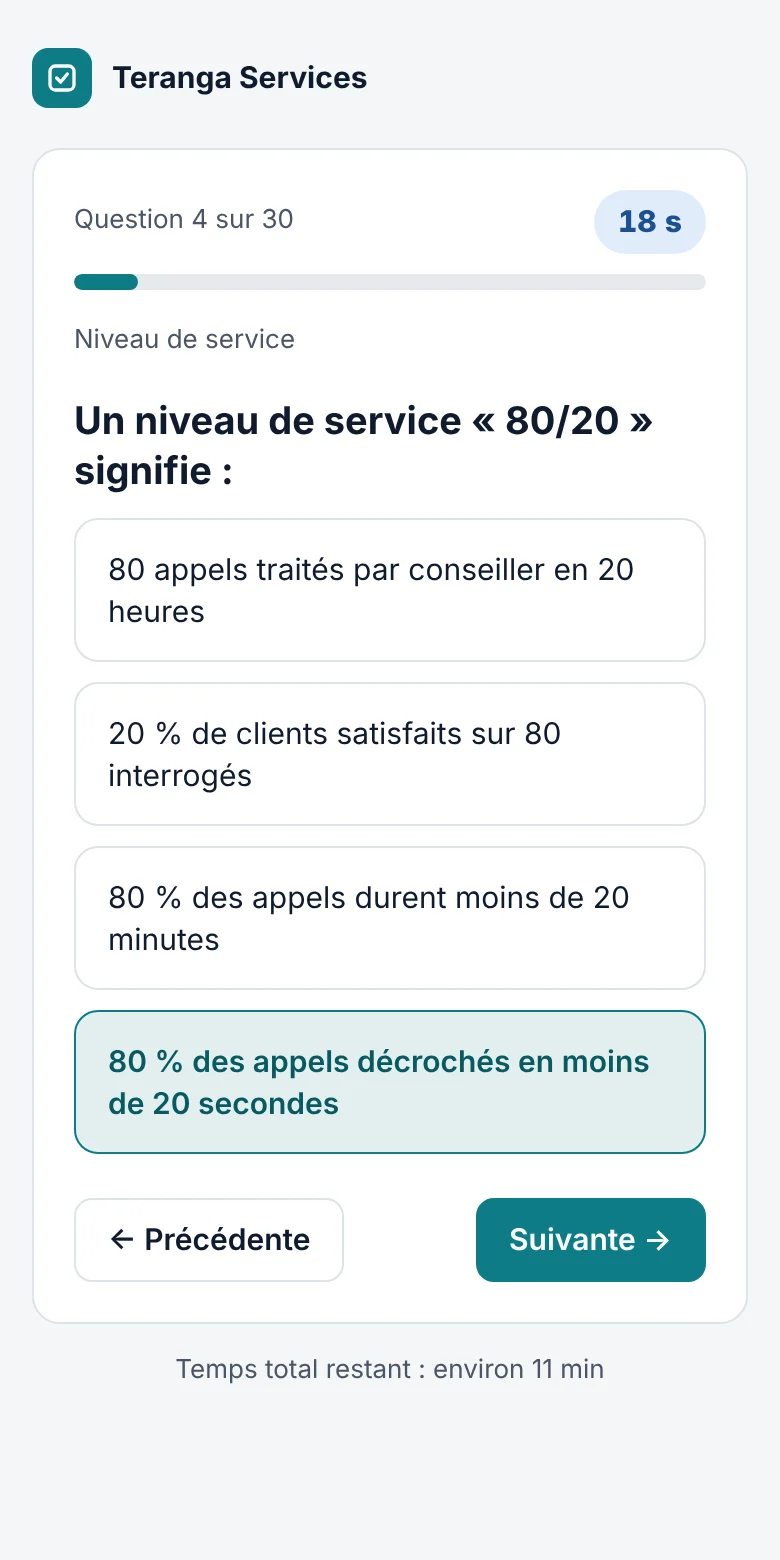
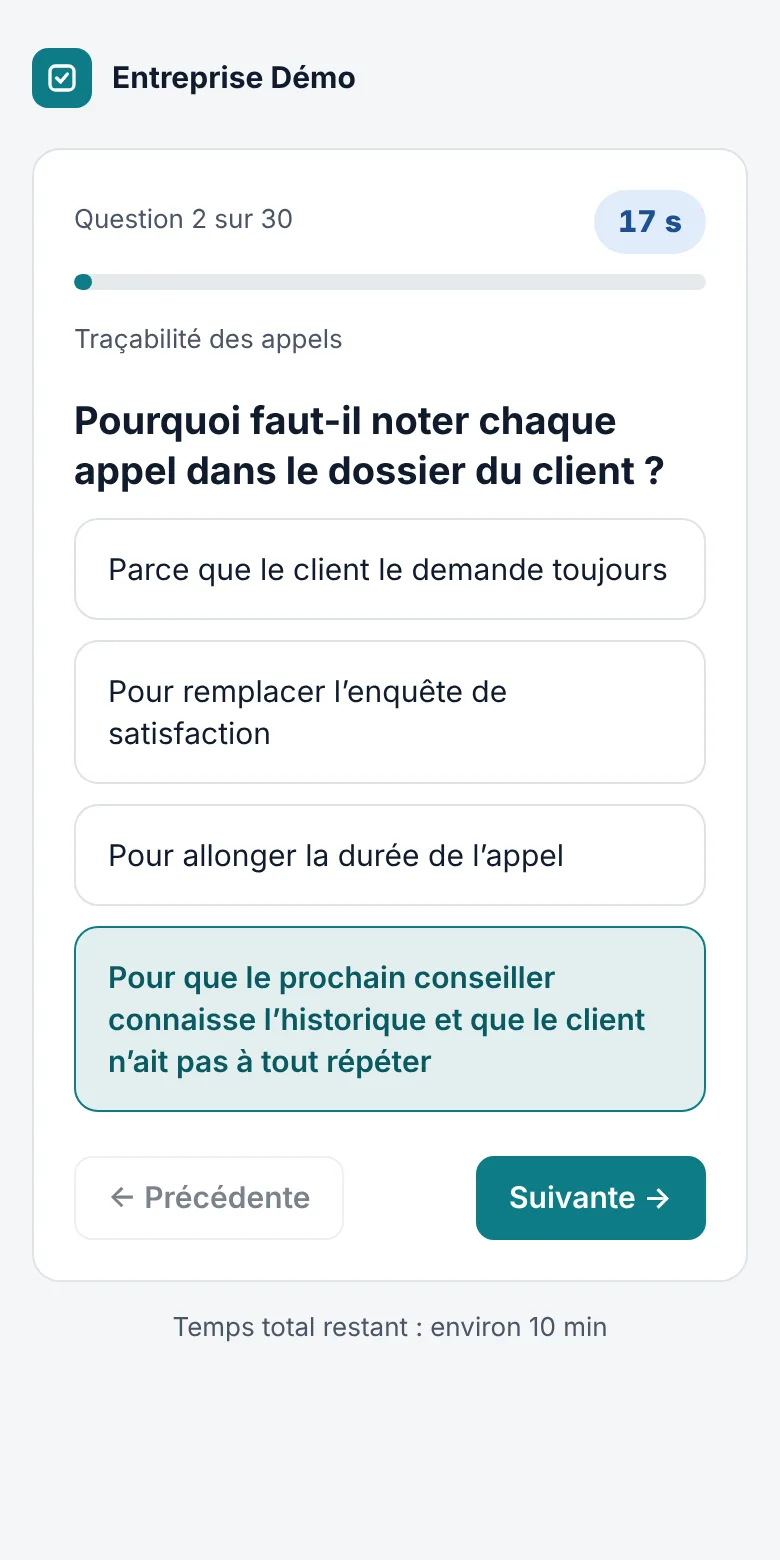
Validation des entreprises, confirmation des adresses e-mail, captures avec entreprise fictive
- Nouvelle entreprise en attente : offres invisibles et aucun e-mail aux candidats avant validation
- Page Administration (valider, suspendre), e-mail au propriétaire à chaque inscription
- Lien de confirmation d'adresse pour recruteurs et candidats, bouton Renvoyer
- Alertes d'offres envoyées après validation et confirmation
- Filtres métiers corrigés et défilants sur téléphone
- Captures refaites avec « Entreprise Démo »

Claude-Session: https://claude.ai/code/session_0149wN8ydciADWxFRrMPPqZM

diff --git a/app/public/app.html b/app/public/app.html
@@ -14,6 +14,7 @@
   <nav class="nav" id="nav"></nav>
   <div class="who"><span id="who"></span><button class="btn sm" id="logout">Se déconnecter</button></div>
 </div></header>
+<div id="notice"></div>
 <main id="app"></main>
 <div id="toast" class="toast" role="status" aria-live="polite"></div>
 <div id="modal"></div>
@@ -45,10 +46,21 @@ document.addEventListener('keydown',function(e){if(e.key==='Escape')closeModal()
 
 /* ---------- chrome ---------- */
 function chrome(active){
-  var top=$('#top');top.hidden=!ME;if(!ME)return;
+  var top=$('#top');top.hidden=!ME;if(!ME){$('#notice').innerHTML='';return;}
   $('#who').innerHTML=(ME.logo?'<img src="'+esc(ME.logo)+'" alt="Logo '+esc(ME.company)+'" style="height:36px;max-width:150px;object-fit:contain;display:block">':'')+'<span>'+esc(ME.company)+'</span>';$('#who').style.cssText='display:flex;align-items:center;gap:10px';
   var items=[['#/accueil','Accueil','accueil'],['#/tests','Mes tests','tests'],['#/offres','Offres','offres'],['#/mails','E-mails','mails'],['#/account','Mon compte','account']];
+  if(ME.superadmin)items.push(['#/admin','Administration','admin']);
+  notice();
   $('#nav').innerHTML=items.map(function(i){return '<a href="'+i[0]+'" class="'+(active===i[2]?'on':'')+'">'+i[1]+'</a>';}).join('');
+}
+/* bandeau d'état du compte : adresse à confirmer, entreprise en cours de vérification */
+function notice(){var n=$('#notice'),m='';
+  if(ME.superadmin){n.innerHTML='';return;}
+  if(!ME.verified)m='<b>Confirmez votre adresse e-mail.</b> Un lien vous a été envoyé à '+esc(ME.email)+' (pensez aux courriers indésirables). Tant que l’adresse n’est pas confirmée, vos tests et vos offres restent en préparation : rien n’est envoyé aux candidats. <button class="btn sm" id="rv" type="button">Renvoyer l’e-mail</button>';
+  else if(ME.companyStatus==='en_attente')m='<b>Votre entreprise est en cours de vérification</b> par l’équipe Genius Recrutement, en général sous 24 heures ouvrées. Vous pouvez déjà préparer vos tests et vos offres : elles deviendront visibles et les candidats seront prévenus dès la validation.';
+  else if(ME.companyStatus==='suspendue')m='<b>Le compte de votre entreprise est suspendu.</b> Vos offres ne sont plus visibles. Écrivez à <a href="mailto:consultingalveris@gmail.com">consultingalveris@gmail.com</a>.';
+  n.innerHTML=m?'<div class="wrap" style="padding-bottom:0"><p class="note '+(ME.companyStatus==='suspendue'?'warn':'info')+'" style="margin:0">'+m+'</p></div>':'';
+  var b=$('#rv');if(b)b.addEventListener('click',function(){busy(b,true);api('POST','/api/verify/resend',{}).then(function(r){toast(r.already?'Adresse déjà confirmée.':r.sent?'E-mail renvoyé à '+ME.email+'.':'L’envoi a échoué. Réessayez dans quelques minutes.');}).catch(handle).then(function(){busy(b,false);});});
 }
 $('#logout').addEventListener('click',function(){api('POST','/api/logout').then(function(){ME=null;location.hash='#/login';});});
 
@@ -208,6 +220,7 @@ function inviteModal(t){
     var bad=list.filter(function(x){return !x.email;});if(bad.length)throw new Error('Adresse e-mail manquante sur la ligne : '+bad[0].name);
     return api('POST','/api/tests/'+t.id+'/invite',{candidates:list,send:d.send}).then(function(r){
       var msg='<h2>'+r.added+' candidat'+(r.added>1?'s':'')+' ajouté'+(r.added>1?'s':'')+'</h2><div class="col" style="margin:14px 0">';
+      if(r.blocked)msg+='<p class="note info">Aucun e-mail envoyé : '+esc(r.blocked)+' En attendant, vous pouvez copier le lien de chaque candidat.</p>';
       if(r.sent)msg+='<p class="note ok">'+r.sent+' e-mail'+(r.sent>1?'s':'')+' d’invitation envoyé'+(r.sent>1?'s':'')+'.</p>';
       if(r.test)msg+='<p class="note warn">Les e-mails ne sont pas encore activés sur la plateforme : '+r.test+' invitation'+(r.test>1?'s n’ont':' n’a')+' pas pu partir. Utilisez le bouton « Copier le lien » à côté de chaque candidat et envoyez-le vous-même (WhatsApp, e-mail…).</p>';
       if(r.failed)msg+='<p class="note warn">'+r.failed+' envoi'+(r.failed>1?'s ont':' a')+' échoué. Utilisez « Renvoyer » plus tard.</p>';
@@ -277,12 +290,12 @@ V.account=function(){
   if($('#logodel'))$('#logodel').addEventListener('click',function(){api('DELETE','/api/company/logo').then(function(){ME.logo=null;toast('Logo retiré.');V.account();}).catch(handle);});
   var rt=ROUTE;if(ME.superadmin)api('GET','/api/admin/mail').then(function(m){if(rt!==ROUTE)return;
     var box=$('#mailcfg');
-    box.innerHTML='<form class="form" id="fm"><div><h2>Envoi des e-mails de la plateforme</h2><p class="muted" style="margin-top:4px">Réservé au propriétaire de Genius Recrutement. Ces réglages viennent du service d’envoi (par exemple Brevo, rubrique « SMTP &amp; API »).</p></div>'+
+    box.innerHTML='<form class="form" id="fm"><div><h2>Envoi des e-mails de la plateforme</h2><p class="muted" style="margin-top:4px">Réservé au propriétaire de Genius Recrutement. Les e-mails partent de la boîte ne-pas-repondre@alveris-consulting.com, hébergée chez LWS.</p></div>'+
     (m.hasPass?'<p class="note ok">Un service d’envoi est enregistré.</p>':'<p class="note warn">Aucun service d’envoi : les e-mails ne partent pas encore.</p>')+
     '<div class="two"><label class="field">Serveur SMTP<input class="in" name="host" value="'+esc(m.host)+'" placeholder="smtp-relay.brevo.com"></label><label class="field">Port<input class="in" name="port" type="number" value="'+esc(m.port)+'"></label></div>'+
     '<label class="field">Identifiant SMTP<input class="in" name="user" value="'+esc(m.user)+'" autocomplete="off"></label>'+
-    '<label class="field">Clé SMTP <span class="hint">'+(m.hasPass?'Laissez vide pour garder la clé déjà enregistrée.':'Collez la clé fournie par le service d’envoi.')+'</span><input class="in" name="pass" type="password" autocomplete="new-password"></label>'+
-    '<label class="field">Expéditeur affiché <span class="hint">Une adresse validée chez le service d’envoi, par exemple : Genius Recrutement &lt;contact@alveris-consulting.com&gt;</span><input class="in" name="from" value="'+esc(m.from)+'"></label>'+
+    '<label class="field">Mot de passe de la boîte <span class="hint">'+(m.hasPass?'Laissez vide pour garder la clé déjà enregistrée.':'Mot de passe de la boîte e-mail d’envoi.')+'</span><input class="in" name="pass" type="password" autocomplete="new-password"></label>'+
+    '<label class="field">Expéditeur affiché <span class="hint">Le nom et l’adresse que verront les destinataires, par exemple : Genius Recrutement &lt;contact@alveris-consulting.com&gt;</span><input class="in" name="from" value="'+esc(m.from)+'"></label>'+
     '<p class="err" hidden></p><div><button class="btn primary" type="submit">Enregistrer et tester</button></div><div id="mres"></div></form>';
     bindForm('#fm',function(d){return api('PUT','/api/admin/mail',d).then(function(r){$('#mres').innerHTML='<p class="note '+(r.verified?'ok':'warn')+'">'+esc(r.message)+'</p>';});});
   }).catch(handle);
@@ -316,6 +329,7 @@ V.offreForm=function(id){
     '<label class="check" style="margin-top:10px"><input type="checkbox" name="autoTest"'+(o.autoTest?' checked':'')+'><span><b>Envoyer le test automatiquement</b> aux candidats dont le métier correspond à l’offre.<br><span class="muted">Sinon, vous l’envoyez vous-même depuis la liste des candidatures.</span></span></label></fieldset>'+
     '<p class="err" hidden></p><div class="row"><button class="btn primary" type="submit">'+(id?'Enregistrer':'Publier l’offre')+'</button><a class="btn" href="'+(id?'#/offres/'+id:'#/offres')+'">Annuler</a></div></form></div>';
     bindForm('#fo',function(d){return (id?api('PUT','/api/rh/offers/'+id,d).then(function(){return {id:id};}):api('POST','/api/rh/offers',d)).then(function(r){
+      if(r.pending){toast('Offre enregistrée. Elle sera visible dès que votre compte sera validé.');location.hash='#/offres/'+r.id;return;}
       toast(id?'Offre enregistrée.':'Offre publiée'+(r.alerted?' : '+r.alerted+' candidat'+(r.alerted>1?'s':'')+' alerté'+(r.alerted>1?'s':'')+'.':'.'));location.hash='#/offres/'+r.id;});});
   }).catch(handle);
 };
@@ -367,6 +381,25 @@ V.accueil=function(){
   }).catch(handle);
 };
 
+/* ---------- administration (propriétaire de la plateforme) ---------- */
+V.admin=function(){
+  if(!ME.superadmin)return V.accueil();
+  chrome('admin');var rt=ROUTE;
+  api('GET','/api/admin/companies').then(function(r){if(rt!==ROUTE)return;var s=r.stats;
+    var ST={en_attente:['À vérifier','warn'],valide:['Validée','ok'],suspendue:['Suspendue','neutral']};
+    app.innerHTML='<div class="wrap col"><div><h1>Administration</h1><p class="muted" style="margin-top:4px">Vérifiez chaque nouvelle entreprise avant que ses offres ne deviennent visibles : nom réel, adresse e-mail professionnelle, activité cohérente.</p></div>'+
+    '<div class="kpis"><div class="kpi accent"><span class="small">Entreprises à vérifier</span><b>'+s.pending+'</b></div><div class="kpi"><span class="small muted">Entreprises</span><b>'+s.companies+'</b></div><div class="kpi"><span class="small muted">Candidats inscrits</span><b>'+s.candidates+'</b></div><div class="kpi"><span class="small muted">Offres ouvertes</span><b>'+s.offers+'</b><span class="small muted">'+s.applications+' candidature'+(s.applications>1?'s':'')+'</span></div></div>'+
+    '<div class="card tight"><div class="table-wrap"><table><thead><tr><th>Entreprise</th><th>Responsable</th><th>Inscription</th><th class="num">Tests</th><th class="num">Offres</th><th>État</th><th></th></tr></thead><tbody>'+
+    r.companies.map(function(c){var st=ST[c.status]||[c.status,'neutral'];
+      return '<tr><td><b>'+esc(c.name)+'</b></td><td>'+esc(c.user||'–')+'<div class="small muted">'+esc(c.email||'')+(c.email&&!c.verified?' · adresse non confirmée':'')+'</div></td><td>'+fmtDate(c.createdAt)+'</td><td class="num">'+c.tests+'</td><td class="num">'+c.offers+'</td><td><span class="pill '+st[1]+'">'+st[0]+'</span></td><td style="text-align:right;white-space:nowrap">'+
+        (c.status!=='valide'?'<button class="btn sm primary" data-st="valide" data-id="'+c.id+'">Valider</button> ':'')+(c.status!=='suspendue'&&c.email!==ME.email?'<button class="btn sm" data-st="suspendue" data-id="'+c.id+'">Suspendre</button>':'')+'</td></tr>';}).join('')+
+    '</tbody></table></div></div></div>';
+    app.querySelectorAll('[data-st]').forEach(function(b){b.addEventListener('click',function(){
+      busy(b,true);
+      api('PUT','/api/admin/companies/'+b.dataset.id,{status:b.dataset.st}).then(function(x){toast(b.dataset.st==='valide'?'Entreprise validée'+(x.alerted?' : '+x.alerted+' candidat'+(x.alerted>1?'s':'')+' alerté'+(x.alerted>1?'s':''):'')+'.':'Entreprise suspendue : ses offres ne sont plus visibles.');route();}).catch(handle).then(function(){busy(b,false);});});});
+  }).catch(handle);
+};
+
 /* ---------- routeur ---------- */
 function handle(e){if(e.status===401){ME=null;location.hash='#/login';return;}if(e.status===404){app.innerHTML='<div class="wrap"><div class="card empty"><h2 style="color:var(--fg)">Page introuvable</h2><p style="margin:8px 0 16px">'+esc(e.message)+'</p><a class="btn" href="#/tests">Retour à mes tests</a></div></div>';return;}toast(e.message);}
 var ROUTE=0;
@@ -377,6 +410,7 @@ function route(){ROUTE++;
   if(ME&&(p[0]==='login'||p[0]==='signup')){location.hash='#/accueil';return;}
   window.scrollTo(0,0);
   if(p[0]==='reset')return V.reset(p[1]||'');
+  if(p[0]==='accueil'&&p[1]==='verifie'){ME.verified=true;history.replaceState(null,'','#/accueil');toast('Adresse e-mail confirmée. Merci !');}
   if(p[0]==='offres'&&p[1]==='new')return V.offreForm(null);
   if(p[0]==='offres'&&p[1]&&p[2]==='edit')return V.offreForm(p[1]);
   if(p[0]==='offres'&&p[1])return V.offre(p[1]);

diff --git a/app/public/candidat.html b/app/public/candidat.html
@@ -65,9 +65,11 @@ V.offres=function(){
   var steps=ME?[['Photo',!!ME.photo],['CV',!!ME.cv],['Métier',!!ME.family],['Téléphone',!!ME.phone]]:[],done=steps.filter(function(x){return x[1];}).length;
   var hero=ME?'<section class="welcome"><div><h1>Bonjour '+esc(ME.name.split(' ')[0])+'</h1>'+(done<4?'<p>Votre profil est complet à '+Math.round(done*25)+' %. Il manque : '+steps.filter(function(x){return !x[1];}).map(function(x){return x[0].toLowerCase();}).join(', ')+'.</p><div class="meter"><i style="width:'+done*25+'%"></i></div><a class="btn primary" href="#/profil" style="margin-top:14px">Compléter mon profil</a>':'<p>Profil complet : vous pouvez postuler en un clic. '+(ME.alerts?'Les nouvelles offres de votre métier vous seront signalées.':'')+'</p>')+'</div></section>'
     :'<section class="welcome"><div><h1>Trouvez un poste à la hauteur de vos compétences</h1><p>Créez votre profil une fois, postulez en un clic et montrez ce que vous savez faire grâce aux tests.</p><a class="btn primary" href="#/signup" style="margin-top:14px">Créer mon profil gratuit</a></div></section>';
+  if(ME&&!ME.verified)hero='<p class="note info" style="margin:0"><b>Confirmez votre adresse e-mail</b> pour pouvoir postuler : un lien vous a été envoyé à '+esc(ME.email)+' (pensez aux courriers indésirables). <button class="btn sm" id="rv" type="button">Renvoyer l’e-mail</button></p>'+hero;
   app.innerHTML='<div class="wrap col">'+hero+'<div class="row between"><h2>Offres d’emploi</h2><input class="in" id="q" placeholder="Poste, entreprise, ville…" value="'+esc(F.q)+'" style="max-width:320px"></div>'+
-  '<div class="chips" id="chips"><button class="chip'+(F.family?'':' on')+'" data-f="" style=">Tous les métiers</button>'+FAM.map(function(f){var on=F.family===f.k;return '<button class="chip'+(on?' on':'')+'" data-f="'+f.k+'" style=">'+GR.famIcon(f.k,18)+esc(f.name)+'</button>';}).join('')+'</div>'+
+  '<div class="chips" id="chips"><button class="chip'+(F.family?'':' on')+'" data-f="">Tous les métiers</button>'+FAM.map(function(f){var on=F.family===f.k;return '<button class="chip'+(on?' on':'')+'" data-f="'+f.k+'">'+GR.famIcon(f.k,18)+esc(f.name)+'</button>';}).join('')+'</div>'+
   '<div id="list" class="col"><p class="muted">Chargement…</p></div></div>';
+  var rv=$("#rv");if(rv)rv.addEventListener("click",function(){rv.disabled=true;api('POST','/api/cand/verify/resend',{}).then(function(r){toast(r.already?'Adresse déjà confirmée.':r.sent?'E-mail renvoyé.':'L’envoi a échoué. Réessayez plus tard.');}).catch(handle).then(function(){rv.disabled=false;});});
   var t;$('#q').addEventListener('input',function(){F.q=this.value;clearTimeout(t);t=setTimeout(load,250);});
   $('#chips').addEventListener('click',function(e){var b=e.target.closest('.chip');if(!b)return;F.family=b.dataset.f;V.offres();});
   function load(){api('GET','/api/offers?q='+encodeURIComponent(F.q)+'&family='+encodeURIComponent(F.family)).then(function(r){if(rt!==ROUTE)return;
@@ -91,6 +93,7 @@ V.offre=function(id){
   }).catch(function(e){app.innerHTML='<div class="wrap"><div class="card empty">'+esc(e.message)+'<br><br><a class="btn" href="#/offres">Voir les offres</a></div></div>';});
 };
 function applyModal(o){
+  if(!ME.verified){toast('Confirmez d’abord votre adresse e-mail : cliquez sur le lien reçu à l’inscription.');return;}
   var miss=[];if(!ME.cv)miss.push('votre CV');if(!ME.phone)miss.push('votre téléphone');
   modal('<h2>Postuler : '+esc(o.title)+'</h2><p class="muted" style="margin:6px 0 14px">Votre profil'+(ME.cv?' et votre CV':'')+' seront transmis à '+esc(o.company)+'.</p>'+
   (miss.length?'<p class="note warn">Il manque '+miss.join(' et ')+'. Vous pouvez postuler quand même, mais un profil complet a plus de chances. <a href="#/profil" onclick="document.getElementById(\'modal\').innerHTML=\'\'">Compléter mon profil</a></p>':'')+
@@ -156,7 +159,7 @@ V.signup=function(){authPage('Créer mon compte candidat','Gratuit. Postulez en 
   '<label class="field">Métier recherché<select class="in" name="family"><option value="">— Choisir —</option>'+FAM.map(function(f){return '<option value="'+f.k+'">'+esc(f.name)+'</option>';}).join('')+'</select></label>'+
   '<label class="check"><input type="checkbox" name="consent" required><span>J’accepte la <a href="/confidentialite.html" target="_blank" rel="noopener">politique de confidentialité</a>.</span></label>'+
   '<p class="err" hidden></p><button class="btn primary block" type="submit">Créer mon compte</button></form>','Déjà inscrit ? <a href="#/login">Se connecter</a>');
-  bindForm($('#f'),function(d){return api('POST','/api/cand/signup',d).then(function(r){ME=r.me;toast('Compte créé. Ajoutez votre photo et votre CV.');var h='';try{h=sessionStorage.getItem('gr-after')||'';}catch(e){}if(h)after();else location.hash='#/profil';});});};
+  bindForm($('#f'),function(d){return api('POST','/api/cand/signup',d).then(function(r){ME=r.me;toast(r.me.verified?'Compte créé. Ajoutez votre photo et votre CV.':'Compte créé. Confirmez votre adresse avec le lien reçu par e-mail.');var h='';try{h=sessionStorage.getItem('gr-after')||'';}catch(e){}if(h)after();else location.hash='#/profil';});});};
 V.forgot=function(){authPage('Mot de passe oublié','Vous recevrez un lien pour en choisir un nouveau.','<form class="form" id="f"><label class="field">Adresse e-mail<input class="in" name="email" type="email" required></label><p class="err" hidden></p><button class="btn primary block" type="submit">Recevoir le lien</button></form>','<a href="#/login">Retour</a>');
   bindForm($('#f'),function(d,f){return api('POST','/api/cand/forgot',d).then(function(){f.innerHTML='<p class="note ok">Si un compte existe avec cette adresse, un e-mail vient de partir. Regardez aussi dans les courriers indésirables.</p>';});});};
 V.reset=function(tok){authPage('Nouveau mot de passe','','<form class="form" id="f"><label class="field">Nouveau mot de passe<input class="in" name="password" type="password" minlength="8" required autocomplete="new-password"></label><p class="err" hidden></p><button class="btn primary block" type="submit">Enregistrer</button></form>');
@@ -166,6 +169,7 @@ function handle(e){if(e.status===401){ME=null;location.hash='#/login';return;}to
 function route(){ROUTE++;var h=location.hash.replace(/^#\/?/,'')||'offres',p=h.split('/');window.scrollTo(0,0);
   var priv={candidatures:1,profil:1};if(priv[p[0]]&&!ME){location.hash='#/login';return;}
   if(ME&&(p[0]==='login'||p[0]==='signup')){location.hash='#/offres';return;}
+  if(p[0]==='offres'&&p[1]==='verifie'){if(ME)ME.verified=true;history.replaceState(null,'','#/offres');toast('Adresse e-mail confirmée. Vous pouvez postuler.');}
   if(p[0]==='offre')return V.offre(p[1]);if(p[0]==='reset')return V.reset(p[1]||'');(V[p[0]]||V.offres)();}
 window.addEventListener('hashchange',route);
 api('GET','/api/cand/me').then(function(r){ME=r.me;FAM=r.families;CONTRACTS=r.contracts;VAPID=r.vapid;route();}).catch(function(){app.innerHTML='<div class="narrow"><p class="note warn">Le serveur ne répond pas. Réessayez dans un instant.</p></div>';});

diff --git a/app/public/index.html b/app/public/index.html
@@ -217,7 +217,7 @@ footer.site a{color:var(--fg-2)}
 </main>
 
 <footer class="site"><div class="wrapx cols">
-  <div>Genius Recrutement est un service d’ALVERIS CONSULTING SARL, Dakar, Sénégal<br>RCCM SN DKR 2026 B 9903 · NINEA 012897601</div>
+  <div>Genius Recrutement est un service d’ALVERIS CONSULTING SARL, Dakar, Sénégal<br>RCCM SN DKR 2026 B 9903 · NINEA 012897601<br>Les captures d’écran montrent le vrai logiciel avec des données d’exemple : entreprise et candidats fictifs.</div>
   <div><a href="/confidentialite.html">Confidentialité</a> · <a href="/mentions-legales.html">Mentions légales</a> · <a href="/espace">Espace candidat</a> · <a href="mailto:consultingalveris@gmail.com">Contact</a></div>
 </div></footer>
 

diff --git a/app/public/style.css b/app/public/style.css
@@ -135,3 +135,4 @@ h2{letter-spacing:-.015em}
 .feed a:last-child{border-bottom:0}
 .feed a:hover{background:var(--surface-2)}
 .empty-ic{width:52px;height:52px;border-radius:12px;background:var(--accent-soft);color:var(--accent-soft-fg);display:grid;place-items:center;margin:0 auto 12px}
+@media (max-width:640px){.chips{flex-wrap:nowrap;overflow-x:auto;margin:0 -16px;padding:0 16px 4px;scrollbar-width:none}.chips::-webkit-scrollbar{display:none}.chip{flex:none}}
